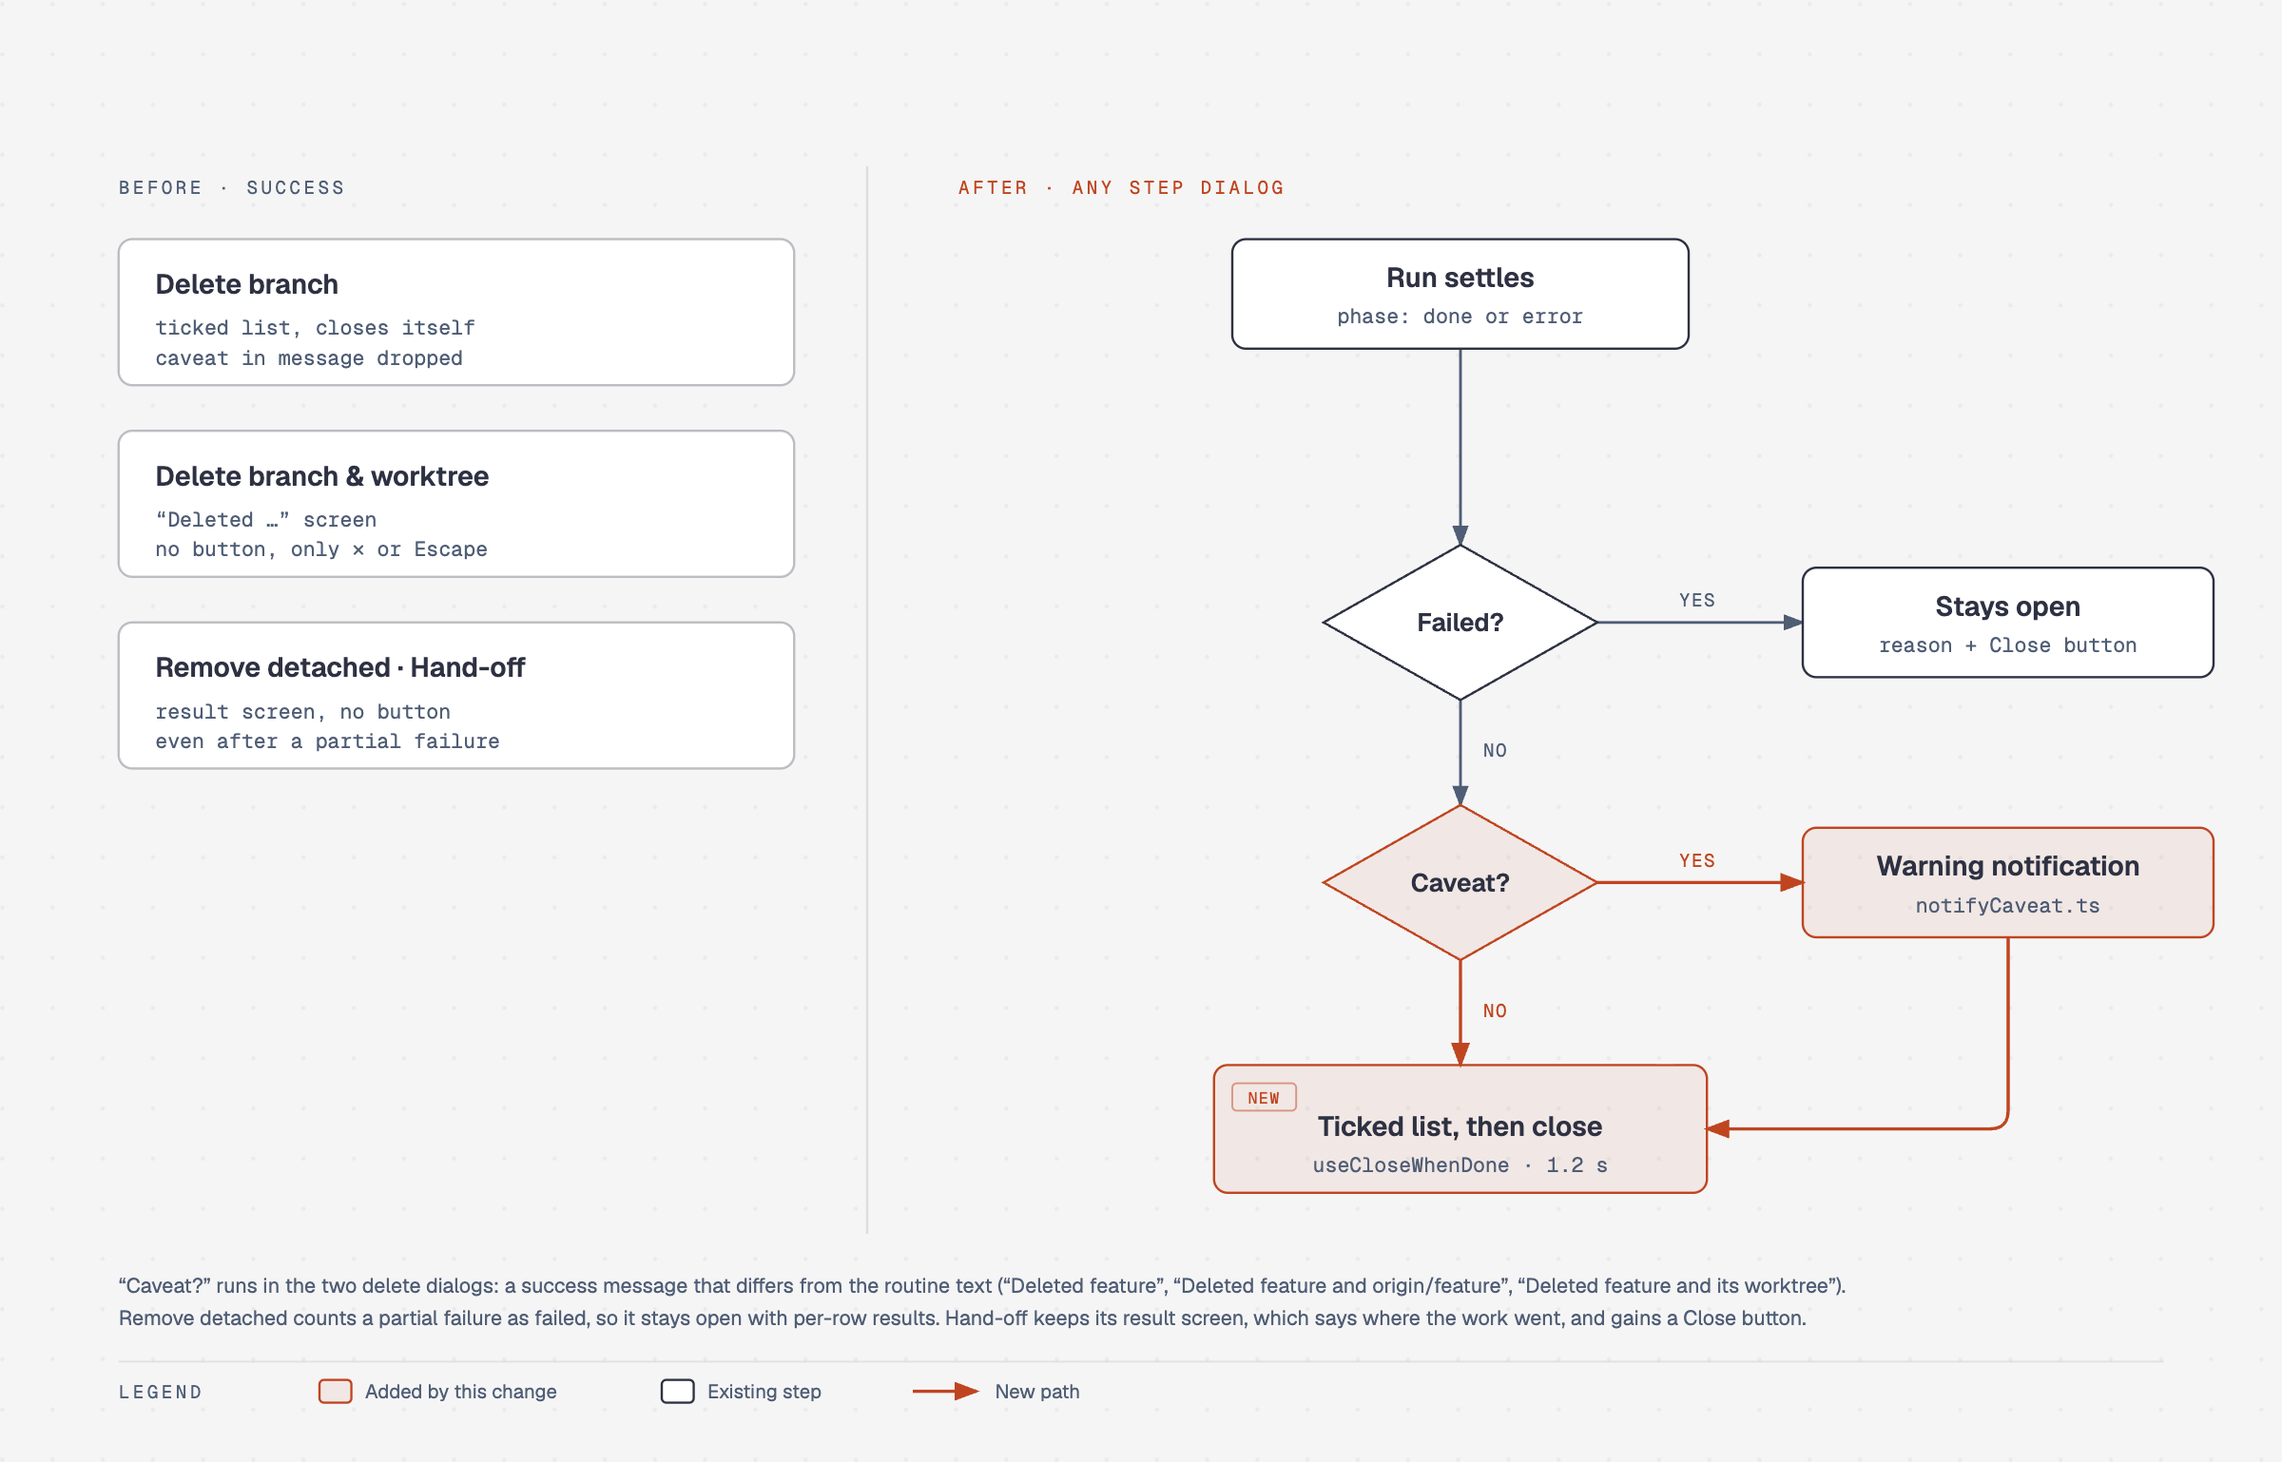
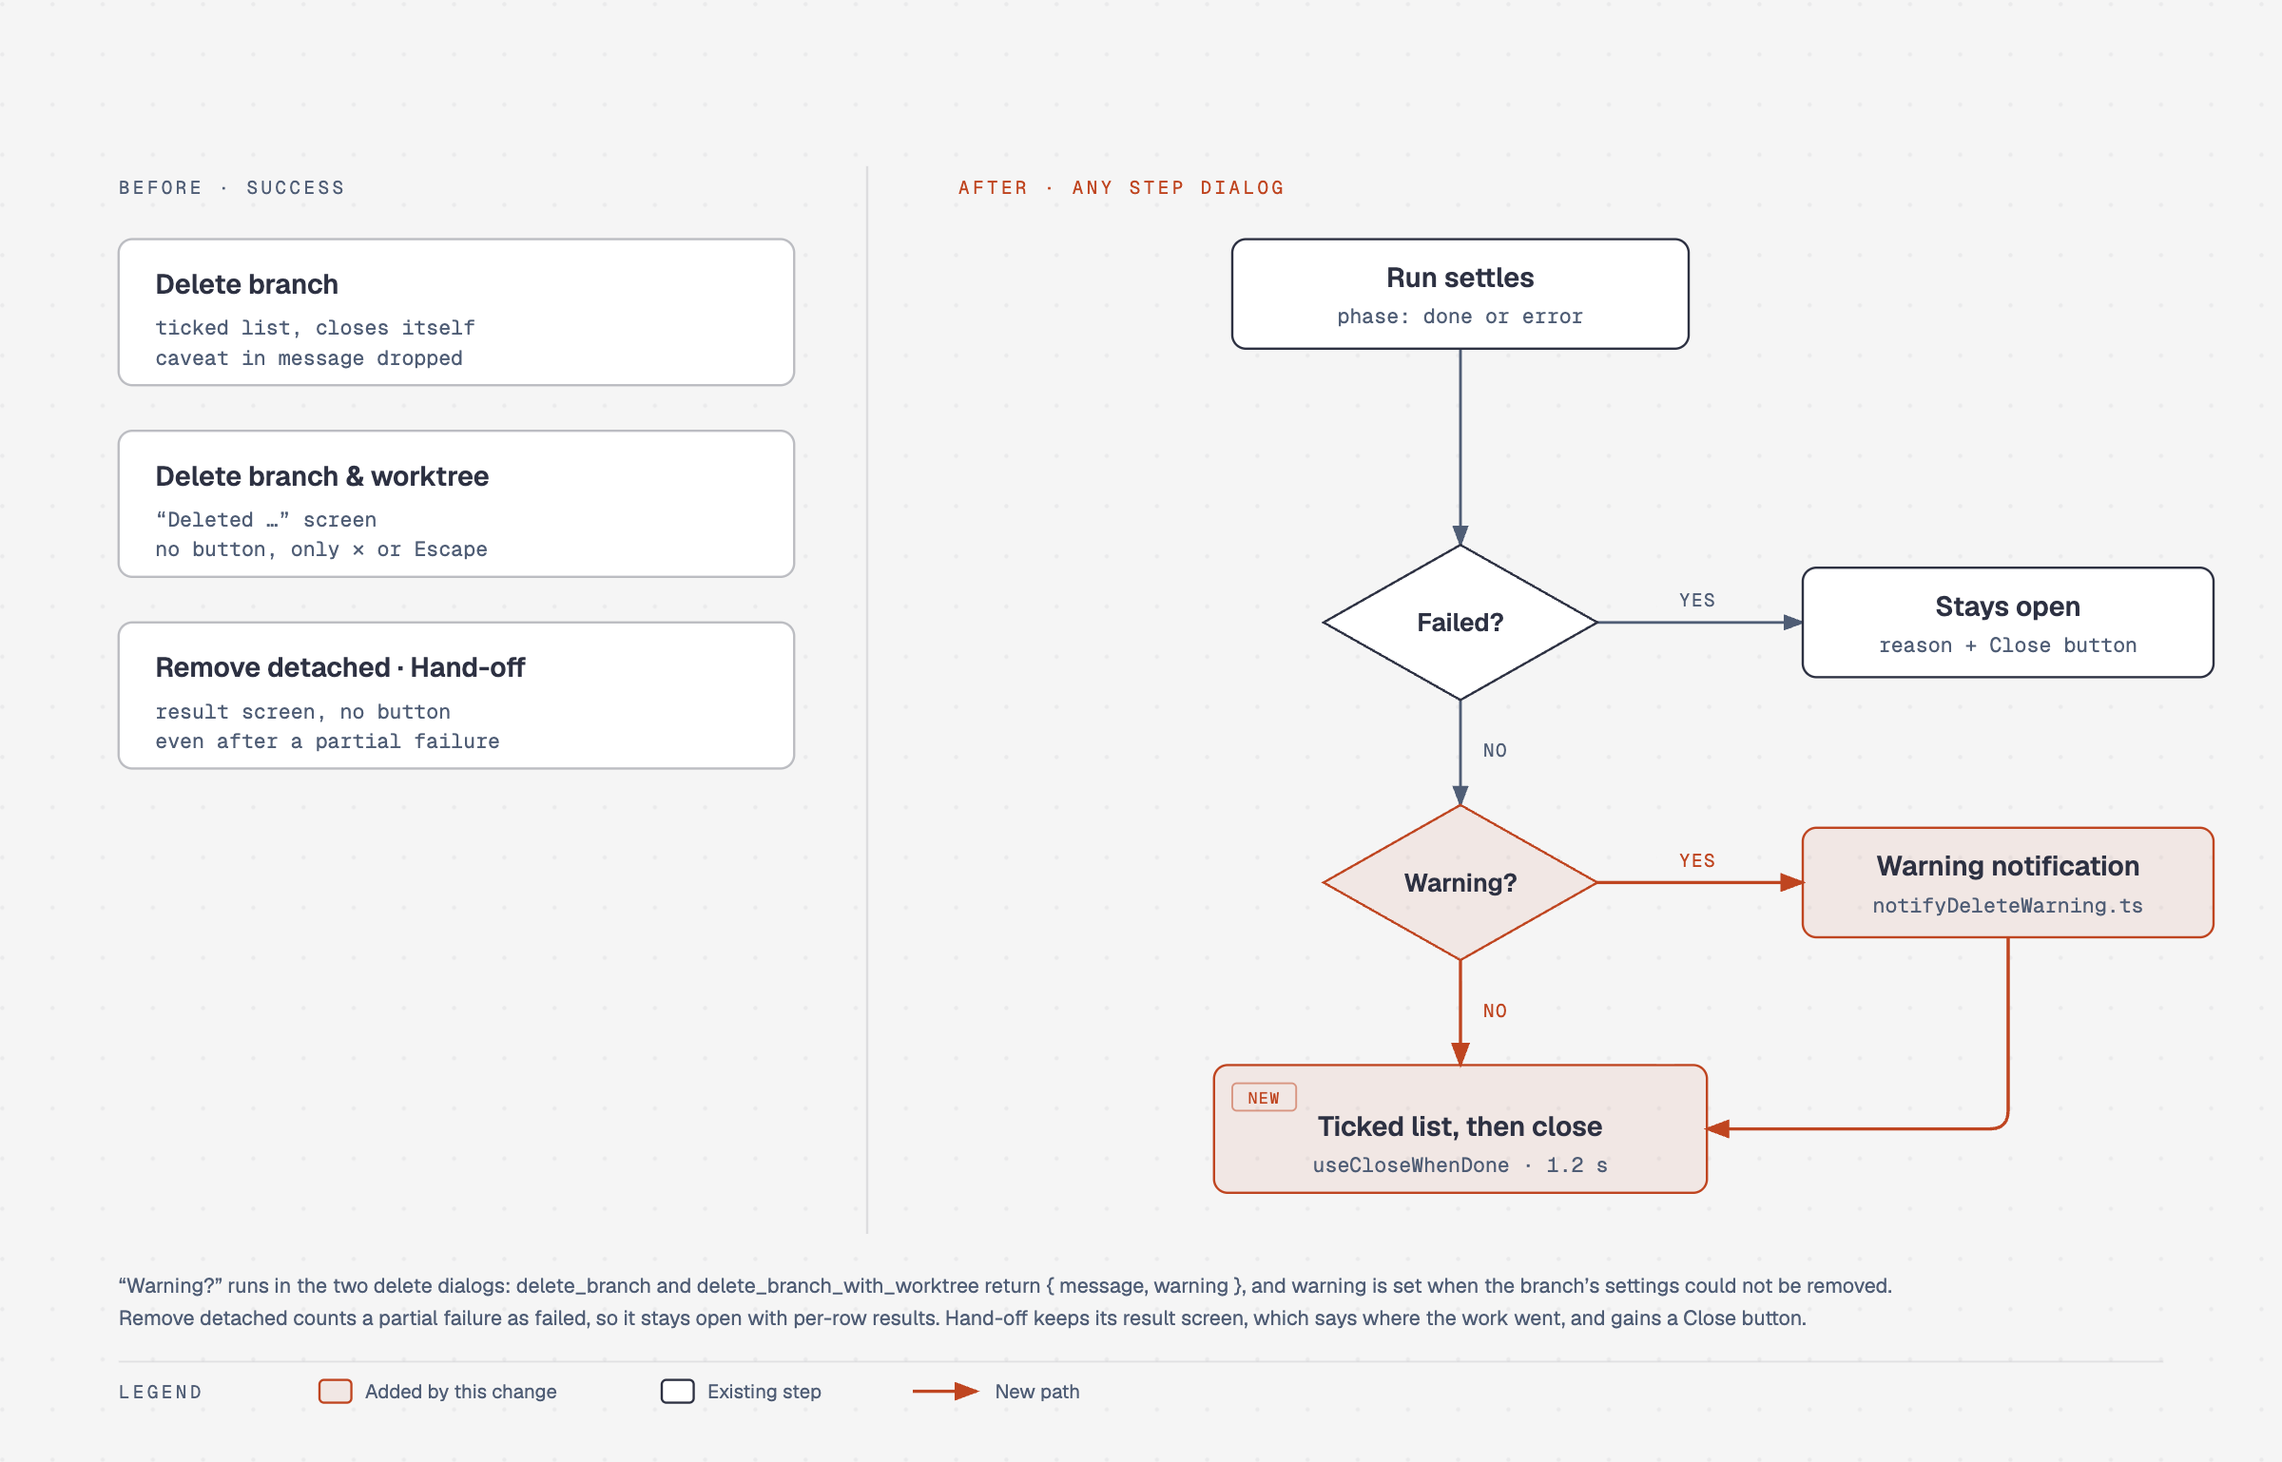
fix(branches): Address review findings on structured delete warnings
- The warning notification names what was deleted in its title and puts
  the warning, with git's own error text, in the body.
  notifyCaveat becomes notifyDeleteWarning(outcome), since it no longer
  detects anything.
- The branch delete dialog's done heading falls back to
  "Deleted <branch>" when a delete returns no message.
- An agent dispatch test checks that delete_branch (command table) and
  delete_branch_with_worktree (its own progress path) return the
  { message, warning } shape over the remote path.
- The refs type modules' headers now mention branch-delete outcomes.
- The dialog-endings diagram describes the returned warning instead of
  text matching; PNG re-exported.

Changed region(s): [[0.0625, 0.8739, 0.8125, 0.9051], [0.8438, 0.593, 0.9375, 0.6242], [0.625, 0.593, 0.6562, 0.6242]]

diff --git a/docs/diagrams/ref-op-feedback/dialog-endings.html b/docs/diagrams/ref-op-feedback/dialog-endings.html
@@ -61,7 +61,7 @@
     <div class="diagram-container">
       <svg viewBox="0 0 1000 640" xmlns="http://www.w3.org/2000/svg" role="img" aria-labelledby="dialog-endings-title dialog-endings-desc">
         <title id="dialog-endings-title">How a step dialog finishes, before and after</title>
-        <desc id="dialog-endings-desc">Before: the branch delete dialog showed its ticked list and closed itself but dropped any caveat in the success message; the branch and worktree delete dialog switched to a Deleted screen with no button; the detached-worktree remove and hand-off dialogs ended on a result screen with no button. After: when a run settles, a failure keeps the dialog open with the reason and a Close button. On success the delete dialogs check whether the message carries a caveat beyond the routine text; if so, notifyCaveat shows it as a warning notification. Then useCloseWhenDone shows the ticked list for about 1.2 seconds and closes the dialog.</desc>
+        <desc id="dialog-endings-desc">Before: the branch delete dialog showed its ticked list and closed itself but dropped any caveat in the success message; the branch and worktree delete dialog switched to a Deleted screen with no button; the detached-worktree remove and hand-off dialogs ended on a result screen with no button. After: when a run settles, a failure keeps the dialog open with the reason and a Close button. On success the delete dialogs check whether the delete returned a warning, such as branch settings left behind; if so, notifyDeleteWarning shows it as a warning notification. Then useCloseWhenDone shows the ticked list for about 1.2 seconds and closes the dialog.</desc>
         <defs>
           <pattern id="dots" width="22" height="22" patternUnits="userSpaceOnUse">
             <circle cx="1" cy="1" r="0.9" fill="rgba(45,49,66,0.10)"/>
@@ -125,11 +125,11 @@
         <text x="880" y="285" fill="#4f5d75" font-size="9" font-family="'Geist Mono', monospace" text-anchor="middle">reason + Close button</text>
 
         <polygon points="640,352 700,386 640,420 580,386" fill="rgba(191,69,32,0.08)" stroke="#bf4520" stroke-width="1"/>
-        <text x="640" y="390" fill="#2d3142" font-size="11" font-weight="600" font-family="'Geist', sans-serif" text-anchor="middle">Caveat?</text>
+        <text x="640" y="390" fill="#2d3142" font-size="11" font-weight="600" font-family="'Geist', sans-serif" text-anchor="middle">Warning?</text>
 
         <rect x="790" y="362" width="180" height="48" rx="6" fill="rgba(191,69,32,0.08)" stroke="#bf4520" stroke-width="1"/>
         <text x="880" y="383" fill="#2d3142" font-size="12" font-weight="600" font-family="'Geist', sans-serif" text-anchor="middle">Warning notification</text>
-        <text x="880" y="399" fill="#4f5d75" font-size="9" font-family="'Geist Mono', monospace" text-anchor="middle">notifyCaveat.ts</text>
+        <text x="880" y="399" fill="#4f5d75" font-size="9" font-family="'Geist Mono', monospace" text-anchor="middle">notifyDeleteWarning.ts</text>
 
         <rect x="532" y="466" width="216" height="56" rx="6" fill="rgba(191,69,32,0.08)" stroke="#bf4520" stroke-width="1"/>
         <rect x="540" y="474" width="28" height="12" rx="2" fill="transparent" stroke="rgba(191,69,32,0.50)" stroke-width="0.8"/>
@@ -138,7 +138,7 @@
         <text x="640" y="513" fill="#4f5d75" font-size="9" font-family="'Geist Mono', monospace" text-anchor="middle">useCloseWhenDone · 1.2 s</text>
 
         <!-- FOOTNOTE -->
-        <text x="52" y="566" fill="#4f5d75" font-size="9" font-family="'Geist', sans-serif">“Caveat?” runs in the two delete dialogs: a success message that differs from the routine text (“Deleted feature”, “Deleted feature and origin/feature”, “Deleted feature and its worktree”).</text>
+        <text x="52" y="566" fill="#4f5d75" font-size="9" font-family="'Geist', sans-serif">“Warning?” runs in the two delete dialogs: delete_branch and delete_branch_with_worktree return { message, warning }, and warning is set when the branch’s settings could not be removed.</text>
         <text x="52" y="580" fill="#4f5d75" font-size="9" font-family="'Geist', sans-serif">Remove detached counts a partial failure as failed, so it stays open with per-row results. Hand-off keeps its result screen, which says where the work went, and gains a Close button.</text>
 
         <!-- LEGEND -->

diff --git a/src/components/chrome/overlays/delete-branch/DeleteBranchDialog.test.tsx b/src/components/chrome/overlays/delete-branch/DeleteBranchDialog.test.tsx
@@ -101,6 +101,19 @@ describe("DeleteBranchDialog", () => {
     expect(useNotifications.getState().toasts).toHaveLength(0);
   });
 
+  it("falls back to the branch name when the delete returns no message", async () => {
+    const run = controllable();
+    useRepo.setState({ removeBranch: run.spy as never });
+    open(null);
+    render(<DeleteBranchDialog />);
+    const button = await screen.findByRole("button", { name: "Delete branch" });
+    await waitFor(() => expect(button).not.toBeDisabled());
+    fireEvent.click(button);
+
+    run.resolve("");
+    expect(await screen.findByText("Deleted feature")).toBeInTheDocument();
+  });
+
   it("reports a delete warning as a notification when it closes itself", async () => {
     const run = controllable();
     useRepo.setState({ removeBranch: run.spy as never });
@@ -113,7 +126,7 @@ describe("DeleteBranchDialog", () => {
     const warning = "The local branch settings of feature could not be removed: locked";
     run.resolve("Deleted feature", warning);
     await waitFor(() => expect(useNotifications.getState().toasts).toHaveLength(1));
-    expect(useNotifications.getState().toasts[0]).toMatchObject({ kind: "warning", title: warning });
+    expect(useNotifications.getState().toasts[0]).toMatchObject({ kind: "warning", title: "Deleted feature", body: warning });
     // The heading stays the plain result; the warning is shown once.
     expect(screen.getByText("Deleted feature")).toBeInTheDocument();
     await waitFor(() => expect(useUi.getState().deleteBranch).toBeNull(), { timeout: DONE_CLOSE_MS + 1000 });

diff --git a/src/components/chrome/overlays/delete-branch/useDeleteBranchRun.ts b/src/components/chrome/overlays/delete-branch/useDeleteBranchRun.ts
@@ -4,7 +4,7 @@
 // (the graph already updates). Same scaffold as useDeleteWorktreeRun.
 
 import { useState } from "react";
-import { notifyCaveat } from "@/components/chrome/overlays/progress";
+import { notifyDeleteWarning } from "@/components/chrome/overlays/progress";
 import { useStepRun } from "@/hooks/useStepRun";
 import { useRepo } from "@/store/repo";
 import { friendlyRepoError, useUi, type DeleteBranchRequest } from "@/store/ui";
@@ -62,11 +62,11 @@ export function useDeleteBranchRun(req: DeleteBranchRequest): DeleteBranchRun {
             )
           : await repo.removeBranch(req.branch, localOid, req.repoPath, true, () => advance(1));
         // Shown whether or not the dialog is still open; routine success stays silent.
-        notifyCaveat(outcome.warning);
+        notifyDeleteWarning(outcome);
         if (!mounted.current) return;
         setReached(runRows.length);
         // The heading; a warning already went to the notification.
-        setMessage(outcome.message);
+        setMessage(outcome.message || `Deleted ${req.branch}`);
         setPhase("done");
       } catch (e) {
         if (!mounted.current) {

diff --git a/src/components/chrome/overlays/delete-worktree/useDeleteWorktreeRun.ts b/src/components/chrome/overlays/delete-worktree/useDeleteWorktreeRun.ts
@@ -14,7 +14,7 @@ import { friendlyGitError } from "@/lib/gitError";
 import { useRepo } from "@/store/repo";
 import { publishedRepoSession } from "@/store/repoRequests";
 import { useStepRun } from "@/hooks/useStepRun";
-import { notifyCaveat } from "@/components/chrome/overlays/progress";
+import { notifyDeleteWarning } from "@/components/chrome/overlays/progress";
 import { useUi, type DeleteWorktreeRequest } from "@/store/ui";
 import { deleteWorktreeStepIndex, DELETE_WORKTREE_REFRESH_ROW } from "./steps";
 
@@ -91,7 +91,7 @@ export function useDeleteWorktreeRun(req: DeleteWorktreeRequest): DeleteWorktree
               },
             );
           // Shown whether or not the dialog is still open; routine success stays silent.
-          notifyCaveat(outcome.warning);
+          notifyDeleteWarning(outcome);
           if (!mounted.current) {
             // Dialog closed mid-run: success is silent (the graph/navigator
             // already update). Failures still toast so the outcome isn't lost.

diff --git a/src/components/chrome/overlays/delete-worktree/DeleteWorktreeDialog.test.tsx b/src/components/chrome/overlays/delete-worktree/DeleteWorktreeDialog.test.tsx
@@ -179,7 +179,7 @@ describe("DeleteWorktreeDialog", () => {
     const warning = "The local branch settings of feature could not be removed: locked";
     await act(async () => del.resolve("Deleted feature and its worktree", warning));
     await waitFor(() => expect(useNotifications.getState().toasts).toHaveLength(1));
-    expect(useNotifications.getState().toasts[0]).toMatchObject({ kind: "warning", title: warning });
+    expect(useNotifications.getState().toasts[0]).toMatchObject({ kind: "warning", title: "Deleted feature and its worktree", body: warning });
     await waitFor(() => expect(useUi.getState().deleteWorktree).toBeNull(), { timeout: DONE_CLOSE_MS + 1000 });
   });
 

diff --git a/src/components/chrome/overlays/progress/notifyDeleteWarning.ts b/src/components/chrome/overlays/progress/notifyDeleteWarning.ts
@@ -1,0 +1,9 @@
+import type { BranchDeleteOutcome } from "@/lib/api";
+import { useNotifications } from "@/store/notifications";
+
+/** A delete dialog that closes itself on success must not swallow a warning the
+ *  delete reported (branch settings left behind): name what was deleted in the
+ *  title and put the warning, with git's own error text, in the body. */
+export function notifyDeleteWarning({ message, warning }: BranchDeleteOutcome): void {
+  if (warning) useNotifications.getState().notify({ kind: "warning", title: message, body: warning });
+}

diff --git a/src/components/chrome/overlays/progress/index.ts b/src/components/chrome/overlays/progress/index.ts
@@ -3,4 +3,4 @@ export { StepList, type StepListRow } from "./StepList";
 export { deviceFlowStepLabel, displayUrl, stepStatus, stepIndexIn, type StepStatus } from "./stepModel";
 export { OutcomeBadge, type OutcomeTone } from "./OutcomeBadge";
 export { DONE_CLOSE_MS, useCloseWhenDone } from "./useCloseWhenDone";
-export { notifyCaveat } from "./notifyCaveat";
+export { notifyDeleteWarning } from "./notifyDeleteWarning";

diff --git a/src/lib/api/git/types/refs.ts b/src/lib/api/git/types/refs.ts
@@ -1,4 +1,5 @@
-// Branches, reflog, and stashes — mirrors `src-tauri/src/git/types/refs.rs`.
+// Branches, reflog, stashes, and branch-delete outcomes — mirrors
+// `src-tauri/src/git/types/refs.rs`.
 
 /** Kind of a branch entry / drag ref (a *local* or *remote-tracking* branch),
  * distinct from `RefKind` (which also covers tags/HEAD). Same const-object rule:

diff --git a/src-tauri/src/agent/dispatch/tests.rs b/src-tauri/src/agent/dispatch/tests.rs
@@ -210,3 +210,64 @@ fn account_references_never_reach_a_command() {
     assert!(is_remote_capable("list_pull_requests"));
     assert!(is_remote_capable("merge_pull_request"));
 }
+
+#[test]
+fn branch_deletes_return_the_outcome_shape_over_the_agent() {
+    let repo = Fixture::new();
+    let path = repo.path();
+    let head = git2::Repository::open(&path)
+        .unwrap()
+        .head()
+        .unwrap()
+        .target()
+        .unwrap()
+        .to_string();
+    let git = |args: &[&str]| {
+        let out = std::process::Command::new("git")
+            .arg("-C")
+            .arg(&path)
+            .args(args)
+            .output()
+            .unwrap();
+        assert!(
+            out.status.success(),
+            "{}",
+            String::from_utf8_lossy(&out.stderr)
+        );
+    };
+
+    // delete_branch goes through the remote_commands table.
+    git(&["branch", "feature", &head]);
+    let outcome = via_table(
+        "delete_branch",
+        json!({ "path": path, "name": "feature", "expectedOid": head, "force": true }),
+    );
+    assert_eq!(
+        outcome,
+        json!({ "message": "Deleted feature", "warning": null })
+    );
+
+    // delete_branch_with_worktree has its own progress path in run.rs.
+    let linked = format!("{path}-wt");
+    let _ = std::fs::remove_dir_all(&linked);
+    git(&["worktree", "add", "-q", "-b", "wt", &linked, &head]);
+    let preview = via_table(
+        "preview_remove_worktree",
+        json!({ "path": path, "worktreePath": linked }),
+    );
+    let outcome = via_table(
+        "delete_branch_with_worktree",
+        json!({
+            "path": path,
+            "branch": "wt",
+            "fromWorktreePath": linked,
+            "expectedOid": head,
+            "expectedState": preview["expectedState"],
+        }),
+    );
+    let _ = std::fs::remove_dir_all(&linked);
+    assert_eq!(
+        outcome,
+        json!({ "message": "Deleted wt and its worktree", "warning": null })
+    );
+}

diff --git a/src-tauri/src/git/types/refs.rs b/src-tauri/src/git/types/refs.rs
@@ -1,5 +1,5 @@
 //! Refs the navigator lists: local and remote branches with their sync state,
-//! stash entries, and reflog entries.
+//! stash entries, and reflog entries; plus the outcome of deleting a branch.
 
 use serde::Serialize;
 
